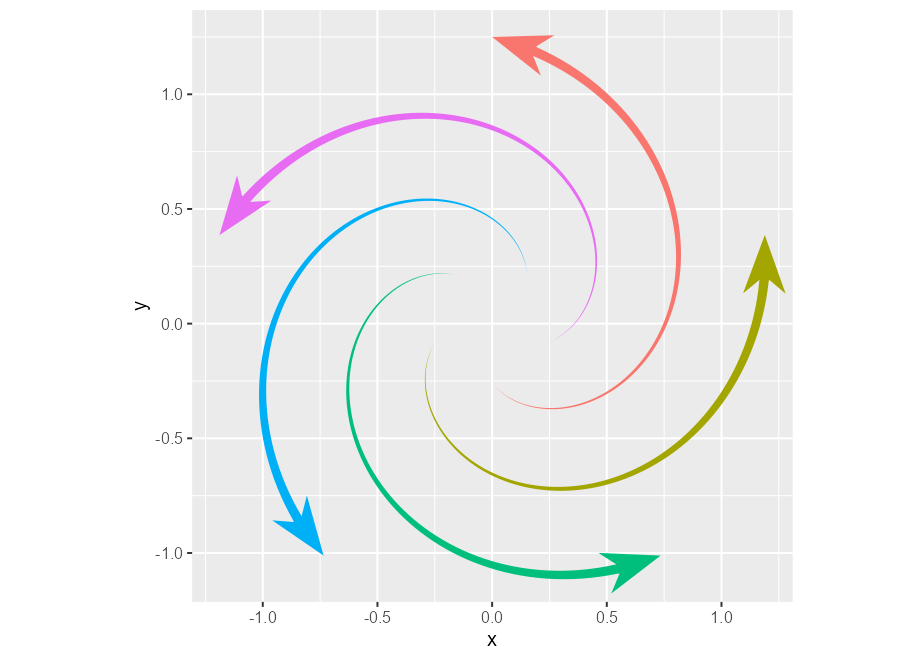
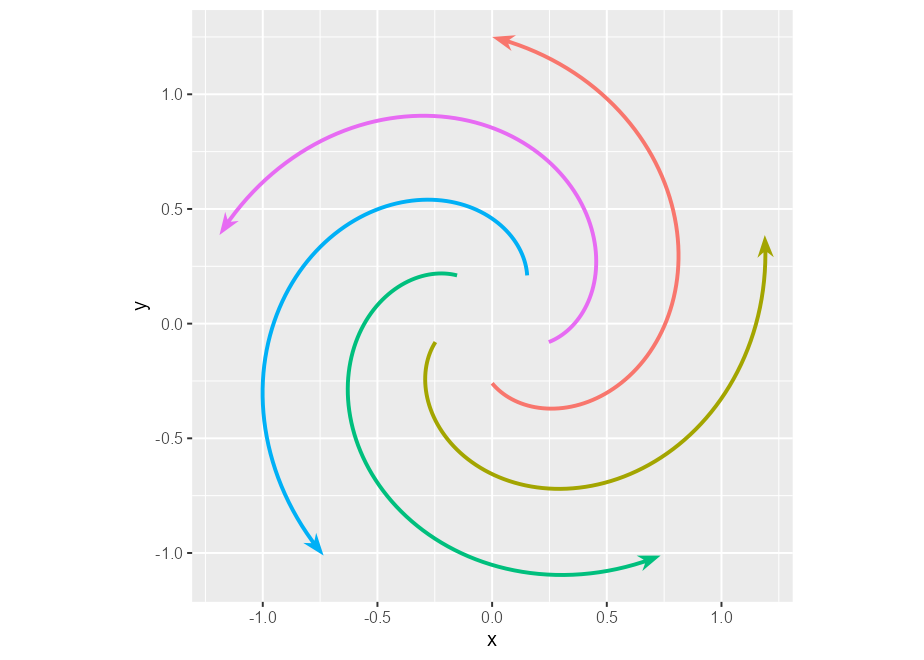
Add theme example

diff --git a/README.md b/README.md
@@ -34,8 +34,9 @@ devtools::install_github("teunbrand/ggarrow")
 ## Arrows
 
 They’re made for pointing at things. The workhorse functionality is in
-the `geom_arrow()` function that, unsurprisingly, draws arrows. Arrows,
-in contrast to vanilla lines, can have variable widths.
+the `geom_arrow()` function that, unsurprisingly, draws arrows.
+
+### Basic arrows
 
 ``` r
 library(ggarrow)
@@ -45,20 +46,34 @@ library(ggarrow)
 p <- ggplot(whirlpool(5), aes(x, y, colour = group)) +
   coord_equal() +
   guides(colour = "none")
-p + geom_arrow(aes(linewidth = I(arc))) # Identity scale for linewidth
+p + geom_arrow()
 ```
 
 <img src="man/figures/README-basic_example-1.png" width="80%" style="display: block; margin: auto;" />
+
+### Variable width
+
+Arrows, in contrast to vanilla lines, can have variable widths.
+
+``` r
+p + geom_arrow(aes(linewidth = I(arc))) # Identity scale for linewidth
+```
+
+<img src="man/figures/README-variable_width-1.png" width="80%" style="display: block; margin: auto;" />
+
+### Inner arrows
 
 Besides varying linewidths, there is also an option to place arrows
 along the path. You could draw arbitrarily many of these, but I doubt
 that will look pretty.
 
 ``` r
-p + geom_arrow(arrow_mid = arrow_head_wings(), mid_place = c(0.25, 0.5, 0.75))
+p + geom_arrow(arrow_mid = "head_wings", mid_place = c(0.25, 0.5, 0.75))
 ```
 
 <img src="man/figures/README-middle_arrows-1.png" width="80%" style="display: block; margin: auto;" />
+
+### Ornament styles
 
 You can also tweak what the arrows should look like. The example below
 is a bit verbose, but gives an impression of the available options by
@@ -90,6 +105,8 @@ such as `geom_arrow_segment()` and `geom_arrow_curve()`, that add the
 same arrow functionality on top of the `geom_segment()` and
 `geom_curve()` layers.
 
+### Chains
+
 Aside from these, there is also `geom_arrow_chain()`, which has no
 equivalent in vanilla ggplot2. It adds arrows in between points, and
 dodges the endpoints a bit so that they don’t seem to touch. In the
@@ -112,6 +129,35 @@ ggplot(df, aes(x, y, size = size)) +
 ```
 
 <img src="man/figures/README-arrow_chain-1.png" width="80%" style="display: block; margin: auto;" />
+
+### Theme elements
+
+Because arrows are almost drop-in replacements for lines, I also
+included `element_arrow()` as a theme element. With function, you can
+set any line element in the theme to an arrow, with similar
+customisation options as the layers.
+
+``` r
+p + geom_arrow() +
+  theme(
+    axis.line.x = element_arrow(
+      arrow_head = "head_wings", linewidth_head = 1.5, linewidth_fins = 0
+    ),
+    axis.line.y = element_arrow(arrow_head = "head_line"),
+    axis.ticks.length = unit(0.4, "cm"),
+    axis.ticks.x = element_arrow(linewidth_fins = 0, linewidth_head = 2),
+    axis.ticks.y = element_arrow(arrow_fins = "head_line"),
+    panel.grid.major = element_arrow(
+      linewidth_head = 5, linewidth_fins = 0,
+      resect_head = 5, resect_fins = 5, lineend = "round"
+    ),
+    panel.grid.minor = element_arrow(
+      linewidth_head = 0, linewidth_fins = 5
+    )
+  )
+```
+
+<img src="man/figures/README-theme_elements-1.png" width="80%" style="display: block; margin: auto;" />
 
 ## Dependency statement
 
